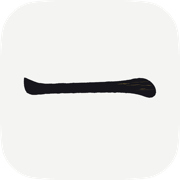
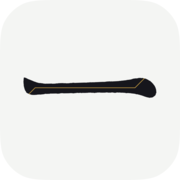
feat: mend the mark with one gold seam (#25)

diff --git a/site/index.html b/site/index.html
@@ -111,7 +111,7 @@
   <p class="wm">Fragments</p>
   <picture>
     <source srcset="mark-on-sumi.svg" media="(prefers-color-scheme: dark)">
-    <img class="stroke" src="mark-on-wash.svg" width="980" height="180" alt="The Fragments mark: one brushstroke, 一, its dry-brush tail filled with gold.">
+    <img class="stroke" src="mark-on-wash.svg" width="980" height="180" alt="The Fragments mark: one brushstroke, 一, broken and mended with a single gold seam.">
   </picture>
   <div class="copy">
     <h1>Everything has a beginning</h1>
